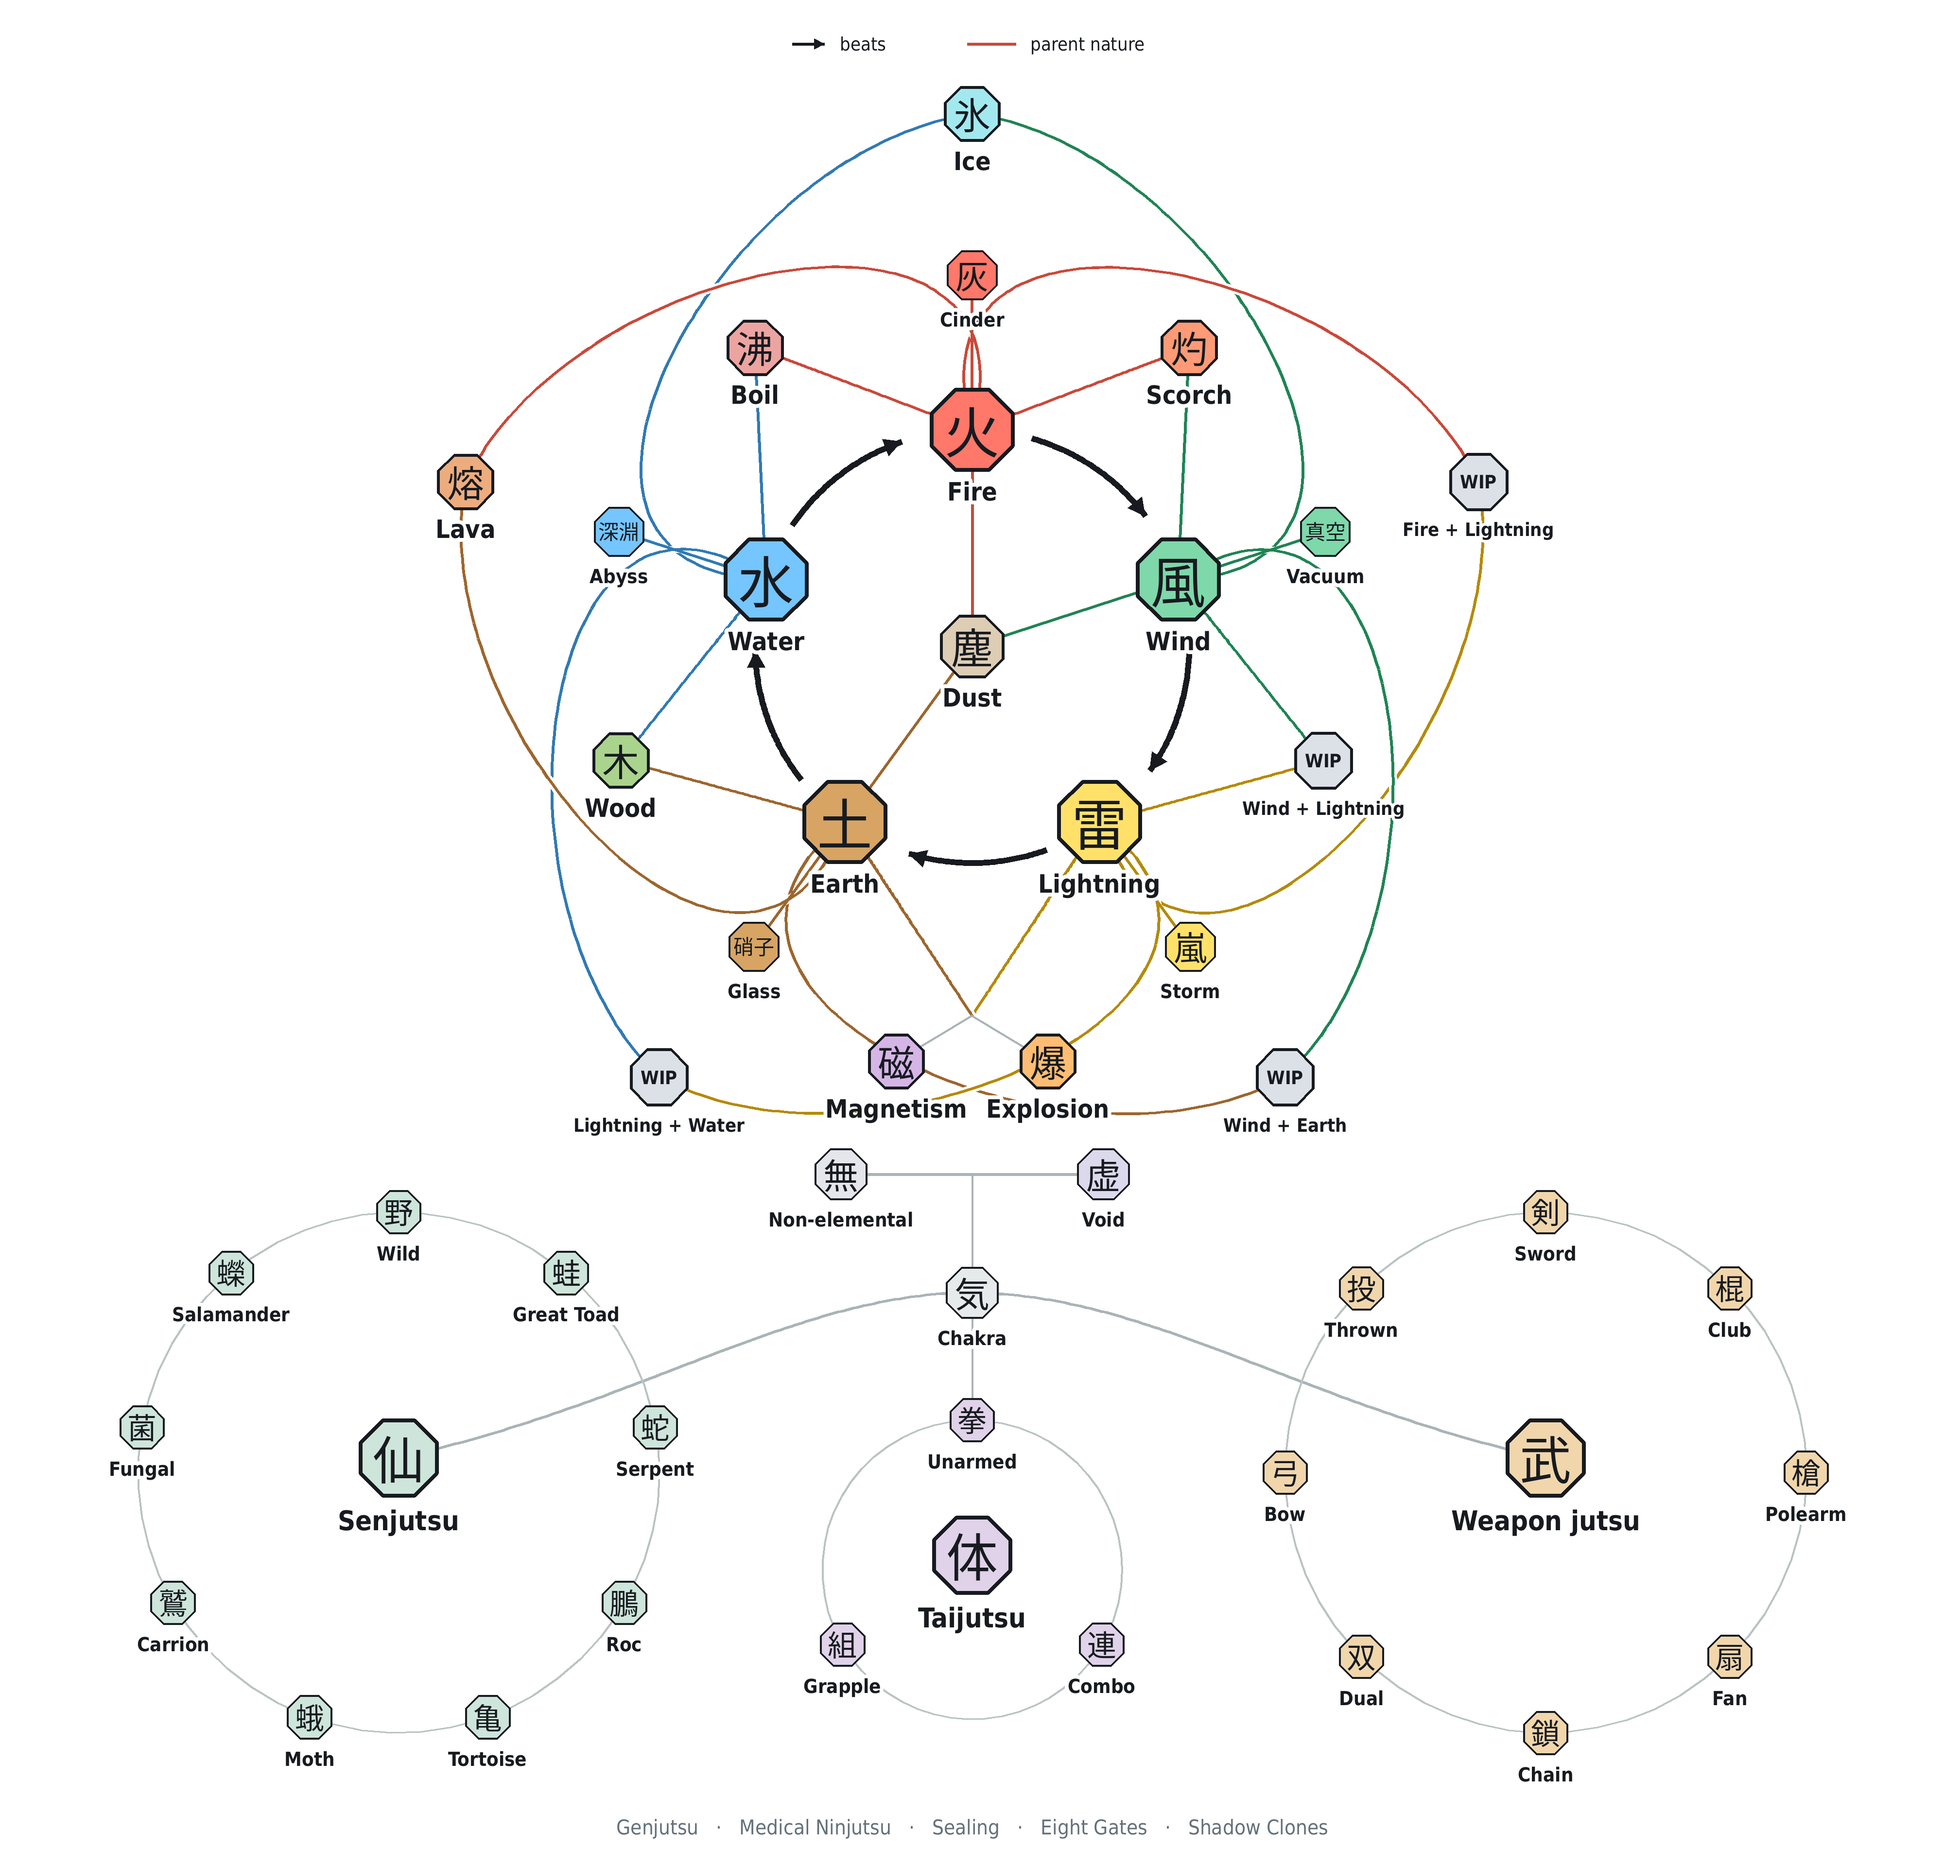
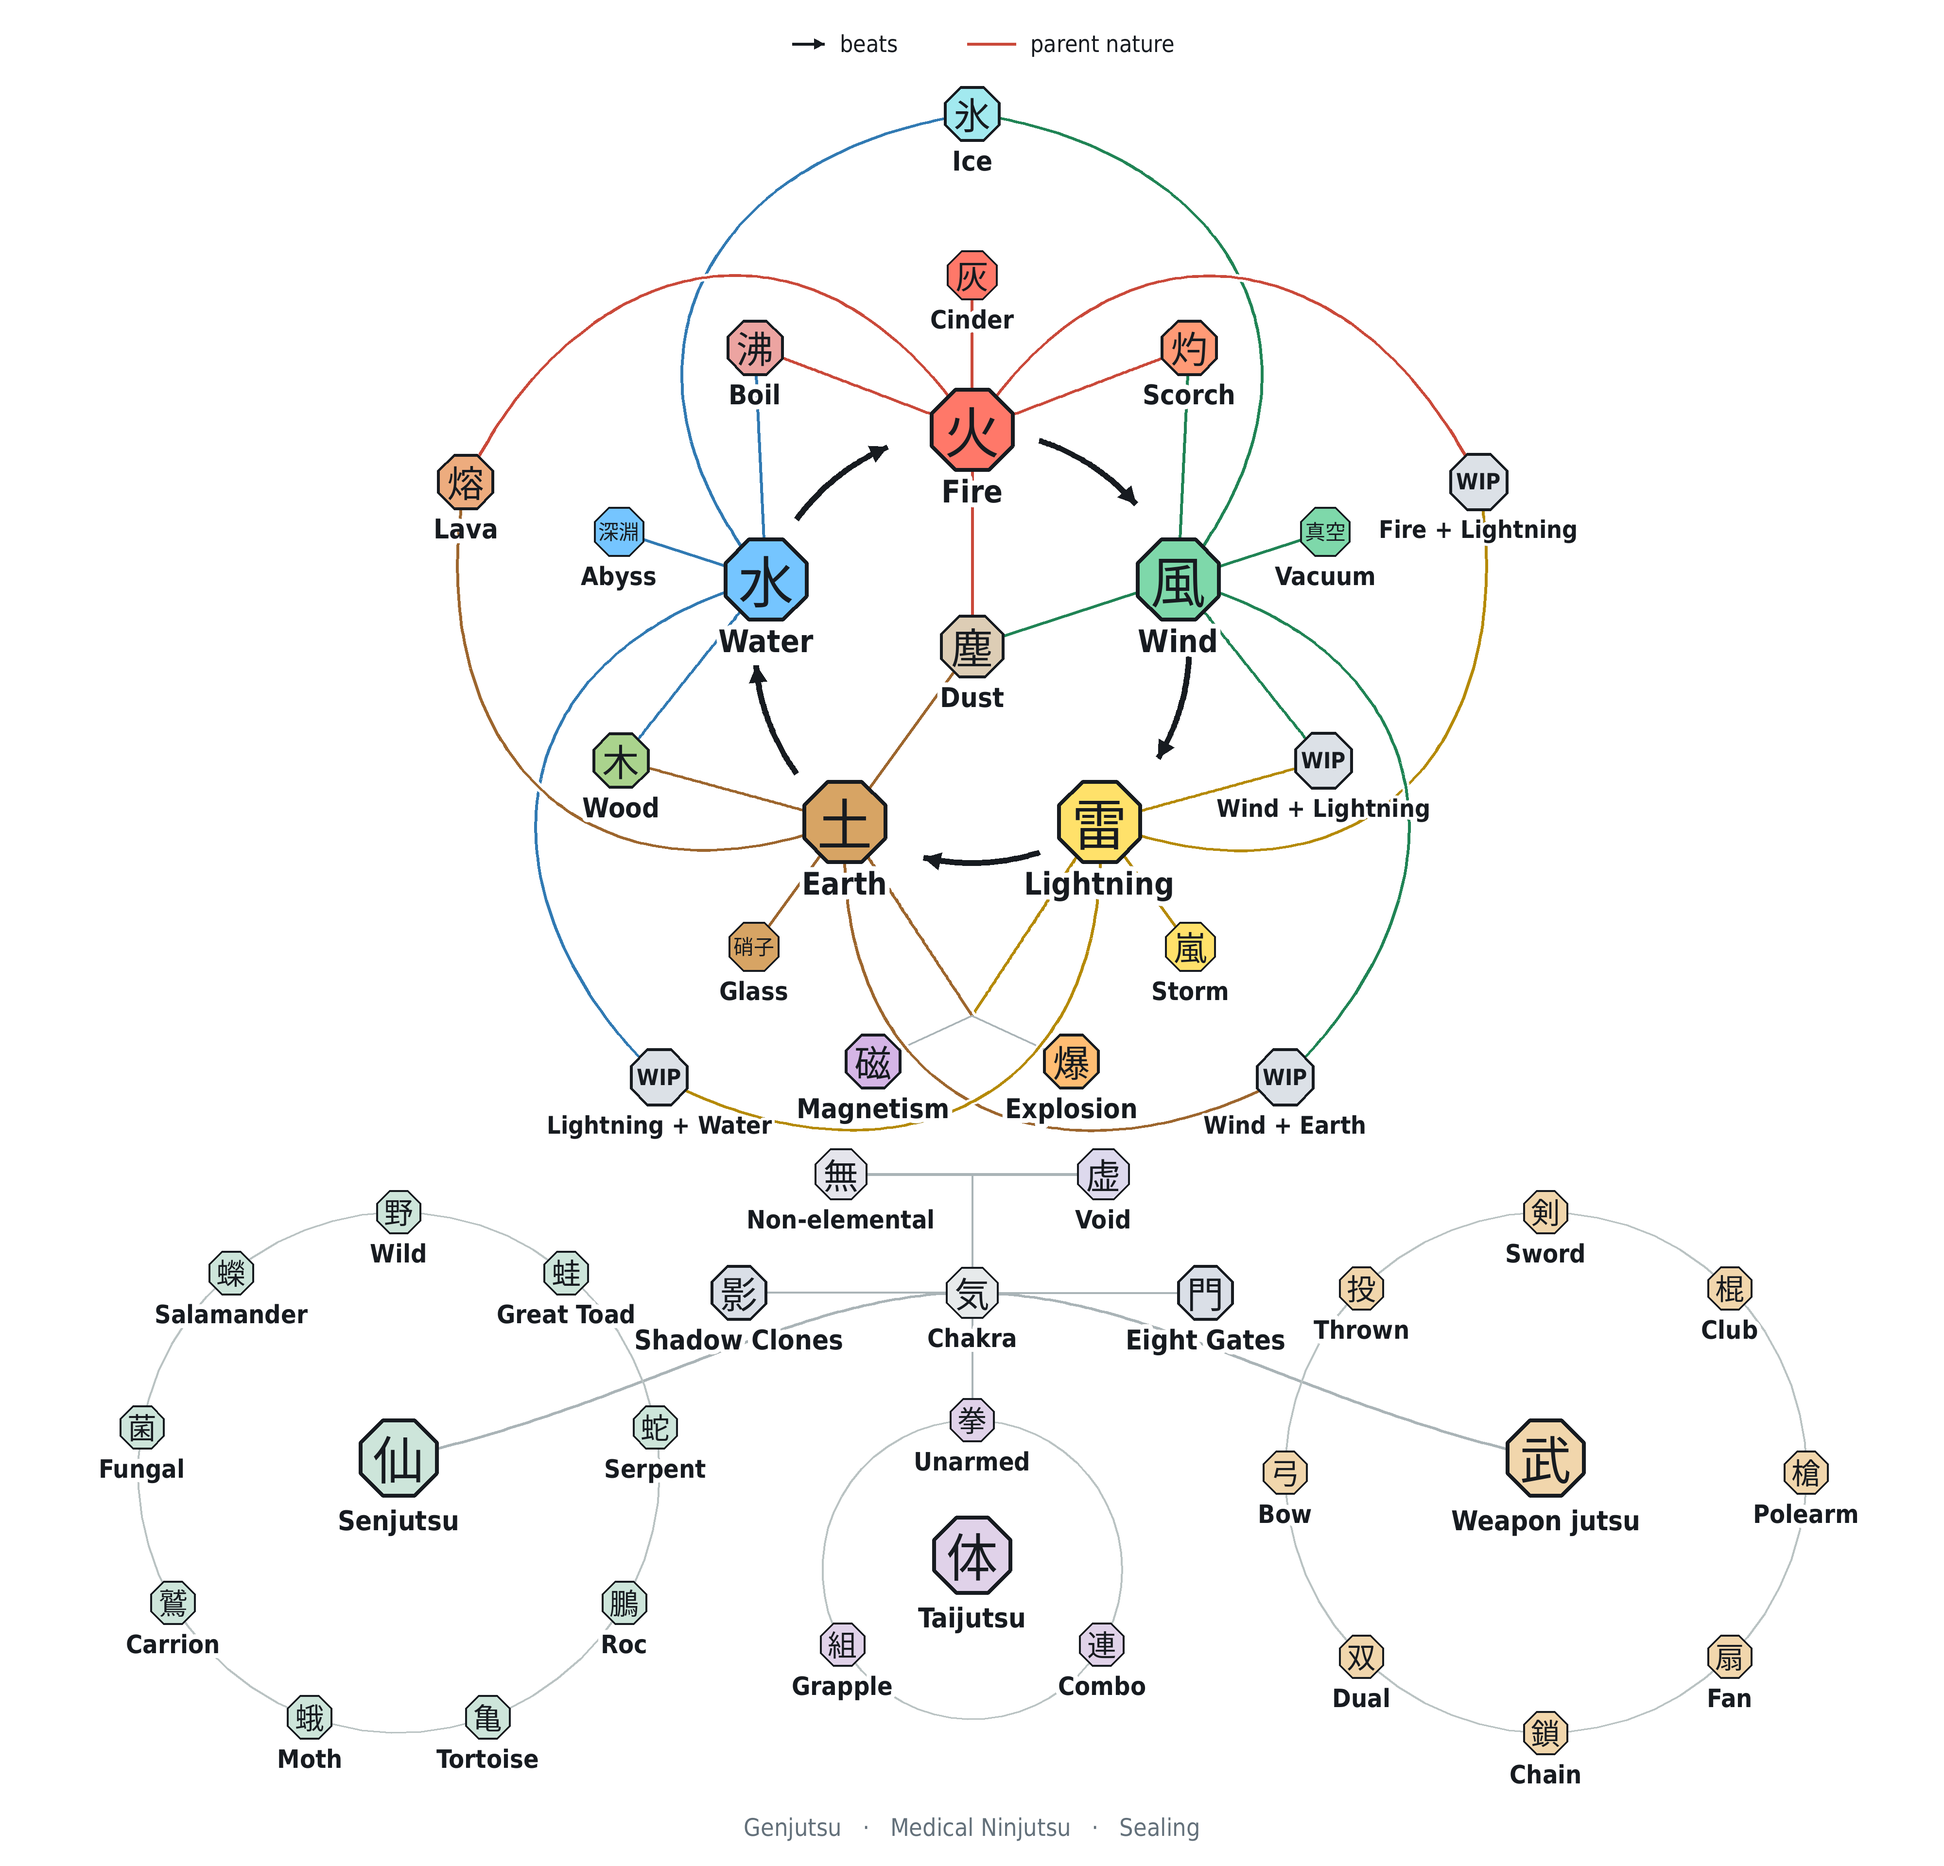
Improve atlas legibility, add school views and label Gates and Shadow Clones

diff --git a/assets/css/site.css b/assets/css/site.css
@@ -193,12 +193,16 @@
 .core-side-links a:hover,.core-side-links a.active{color:var(--text);border-left-color:var(--accent);background:var(--surface2)}
 
 /* Feral release sigils: intentionally stark, like stamped elemental marks. */
-.jutsu-atlas { display: block; margin: 1.5rem auto 2rem; max-width: 60rem; cursor: zoom-in; }
+.jutsu-atlas { display: block; margin: 1.5rem auto 2rem; max-width: 78rem; cursor: zoom-in; }
 .chakra-chart { display: block; width: 100%; height: auto; font-family: "DM Sans", system-ui, sans-serif; }
 .jutsu-atlas-reader { padding: 1rem; min-width: 0; }
 .jutsu-atlas-reader > a { color: var(--text); margin-inline-end: 1rem; text-decoration: underline; }
 .jutsu-atlas-scroll { margin-top: 1rem; overflow-x: auto; }
 .jutsu-atlas-scroll .chakra-chart { min-width: 100rem; }
+.atlas-focus:not([hidden]) { display: inline-flex; align-items: center; gap: .5rem; margin: .4rem 0; }
+.atlas-focus select { font: inherit; color: var(--text); background: var(--surface); border: 1px solid var(--line); padding: .35rem; }
+.jutsu-atlas-scroll[data-focused] .chakra-chart { min-width: 0; max-height: 85vh; }
+.jutsu-atlas-scroll[data-wide] .chakra-chart { min-width: 52rem; max-height: none; }
 .jutsu-type-card .jutsu-section-seal {
   width: 42px;
   height: 42px;

diff --git a/rules/jutsu-atlas.html b/rules/jutsu-atlas.html
@@ -6,7 +6,17 @@ permalink: /rules/jutsu/atlas/
 <div class="jutsu-atlas-reader">
   <a href="{{ '/rules/jutsu/' | relative_url }}">← Jutsu Compendium</a>
   <a href="{{ '/assets/img/jutsu-atlas.png' | relative_url }}" download>Download transparent PNG</a>
-  <div class="jutsu-atlas-scroll" tabindex="0" role="region" aria-label="Full-size chakra chart">
+  <label class="atlas-focus" hidden>View
+    <select aria-controls="atlas-detail">
+      <option value="0 0 2000 1920">Full atlas</option>
+      <option data-wide value="370 5 1260 1170">Chakra natures</option>
+      <option value="615 1140 770 292">Chakra techniques</option>
+      <option value="22 1190 725 660">Senjutsu</option>
+      <option value="790 1390 420 415">Taijutsu</option>
+      <option value="1245 1190 740 660">Weapon jutsu</option>
+    </select>
+  </label>
+  <div id="atlas-detail" class="jutsu-atlas-scroll" tabindex="0" role="region" aria-label="Full-size chakra chart">
     {% include chakra-chart.svg %}
   </div>
 </div>

diff --git a/assets/js/site.js b/assets/js/site.js
@@ -177,3 +177,24 @@
   document.addEventListener('ember:before-page', () => closeSearch(false));
   initPage();
 })();
+
+/* Use the same vector chart for the overview and each enlarged school. */
+function setupAtlasFocus() {
+  const control = document.querySelector('.atlas-focus[hidden]');
+  if (!control) return;
+  const select = control.querySelector('select');
+  const panel = document.getElementById('atlas-detail');
+  const chart = panel.querySelector('svg');
+  const overview = chart.getAttribute('viewBox');
+  function showView() {
+    chart.setAttribute('viewBox', select.value);
+    panel.toggleAttribute('data-focused', select.value !== overview);
+    panel.toggleAttribute('data-wide', select.selectedOptions[0].hasAttribute('data-wide'));
+    panel.scrollLeft = (panel.scrollWidth - panel.clientWidth) / 2;
+  }
+  control.hidden = false;
+  select.addEventListener('change', showView);
+  showView();
+}
+setupAtlasFocus();
+document.addEventListener('ember:page', setupAtlasFocus);
